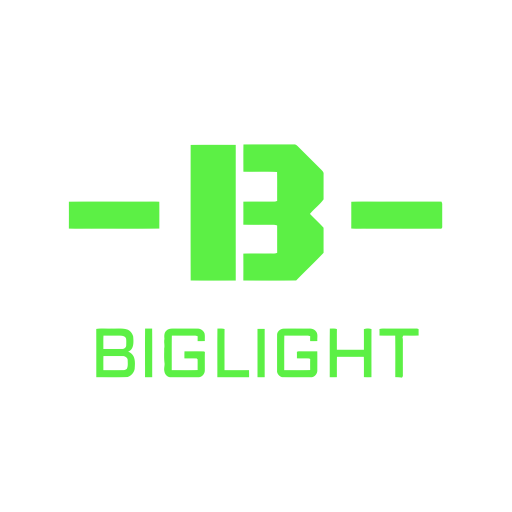
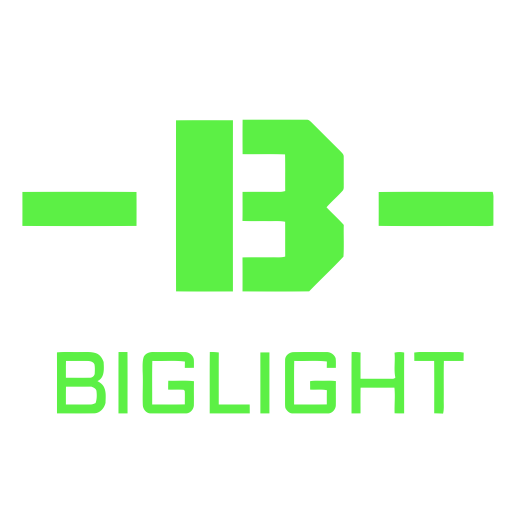
修改图标

Changed region(s): [[0.0938, 0.625, 0.9062, 0.8125], [0.3438, 0.2188, 0.9688, 0.5938], [0.0312, 0.375, 0.3125, 0.4688]]

diff --git a/site.config.js b/site.config.js
@@ -1,6 +1,6 @@
 module.exports = {
   // where it all starts -- the site's root Notion page (required)
-  rootNotionPageId: 'e495b1b789d344308cd38ebaf23ea2e7',
+  rootNotionPageId: 'dc2c38ffa2f04aae81a2cade158a2ade?v=e495b1b789d344308cd38ebaf23ea2e7',
 
   // if you want to restrict pages to a single notion workspace (optional)
   // (this should be a Notion ID; see the docs for how to extract this)
